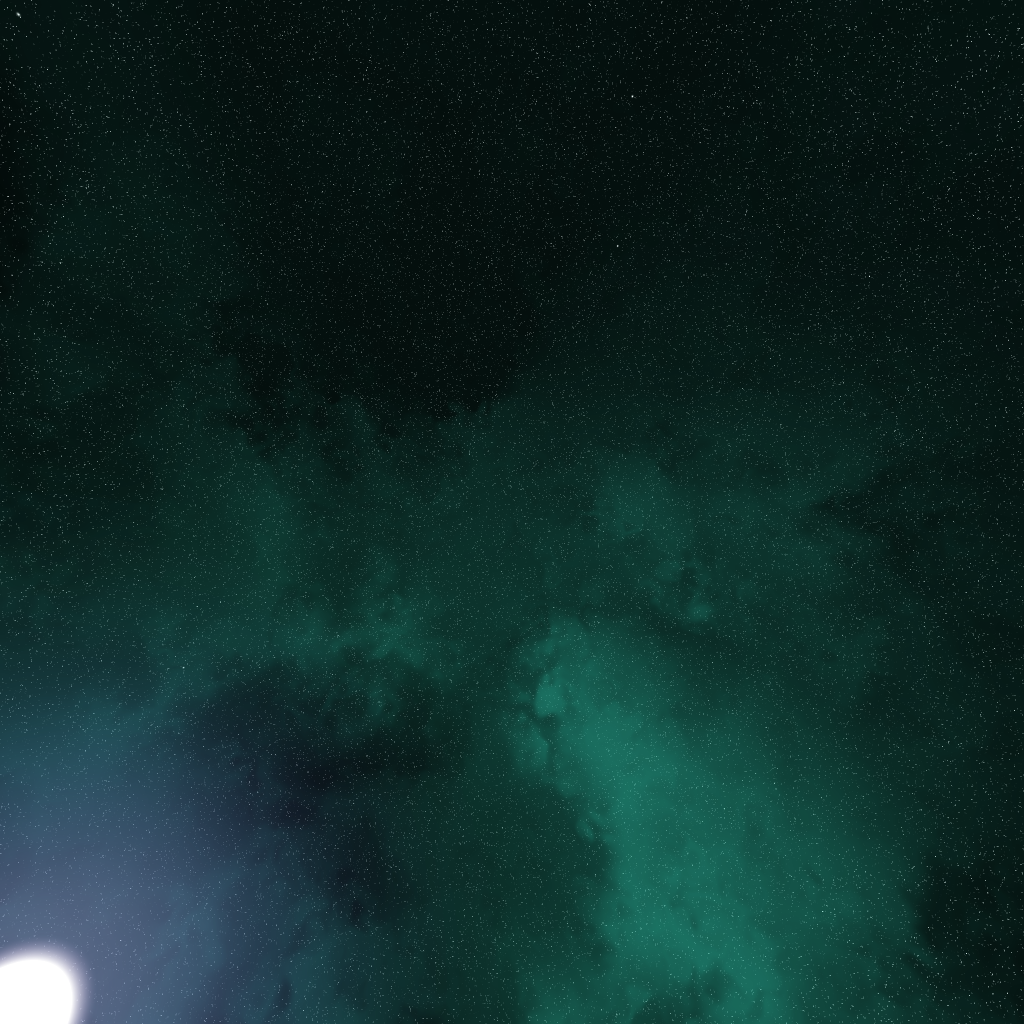
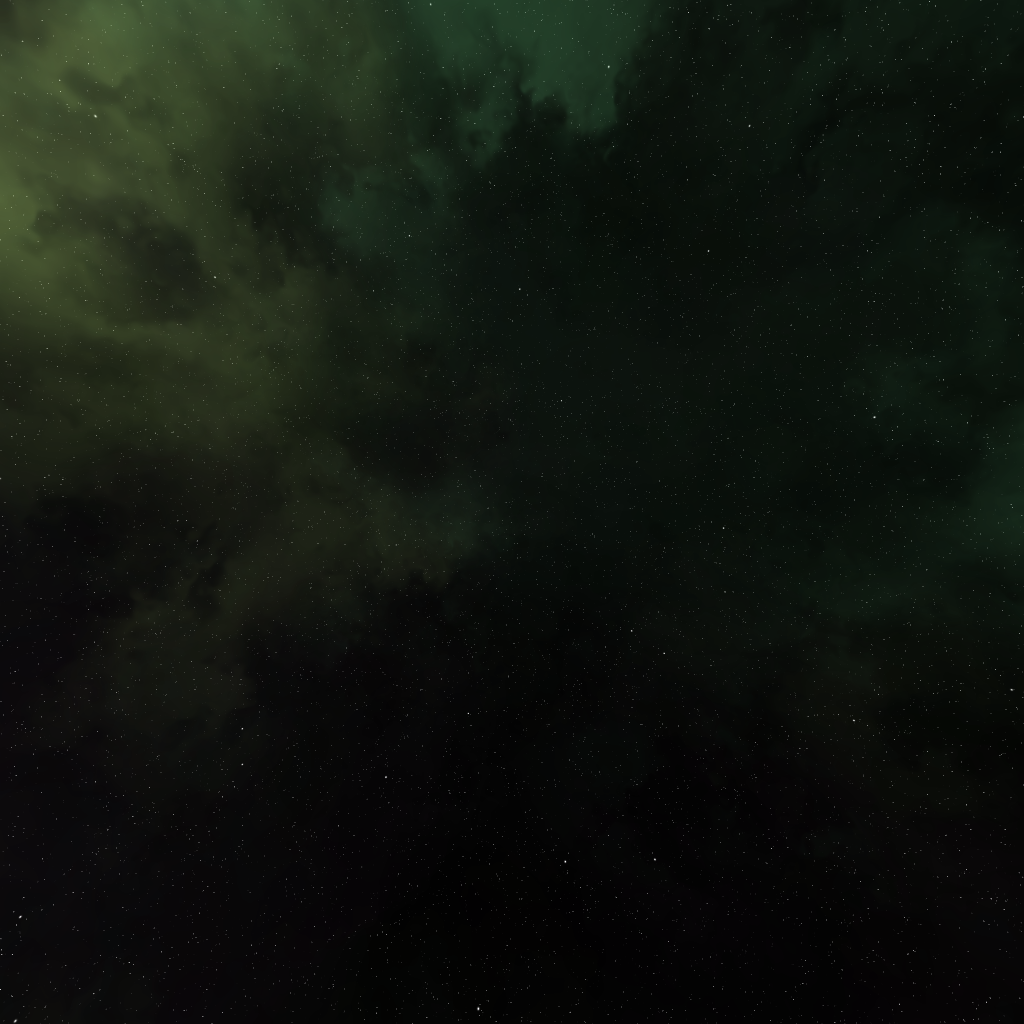
ADDED NEW SKYBOX

diff --git a/GraphicsProgramming/Scene.cpp b/GraphicsProgramming/Scene.cpp
@@ -44,7 +44,31 @@ Scene::Scene(Input *in)
 	//defaultLight->specular = Vector3(1.0f, 1.0f, 1.0f);
 
 	//lights.push_back(defaultLight);
+
+
+
 	LoadScene("scene.json");
+
+	Light* fireLight = new Light();
+
+	fireLight->name = "FireLight";
+	fireLight->type = LightType::Point;
+
+	fireLight->active = true;
+	fireLight->visible = true;
+
+	fireLight->position = Vector3(0.0f, 2.0f, 0.0f);
+
+	fireLight->ambient = Vector3(0.2f, 0.05f, 0.0f);
+	fireLight->diffuse = Vector3(1.0f, 0.3f, 0.1f);
+	fireLight->specular = Vector3(1.0f, 0.5f, 0.2f);
+
+
+	fireLight->constantAttenuation = 1.0f;
+	fireLight->linearAttenuation = 0.09f;
+	fireLight->quadraticAttenuation = 0.032f;
+
+	lights.push_back(fireLight);
 	skybox.loadTexture();
 	
 }
@@ -1007,7 +1031,7 @@ void Scene::drawSun()
 	renderer.ApplyMaterial(Vector3(1.0f, 0.8f, 0.2f), Vector3(1.0f, 0.9f, 0.3f), Vector3(1.0f, 1.0f, 0.5f), 10.0f);
 	GLfloat emission[] = { 1.0f, 0.8f, 0.2f, 1.0f };
 	glMaterialfv(GL_FRONT, GL_EMISSION, emission);
-	glScalef(0.5f, 0.5f, 0.5f);
+	glScalef(1.5f, 1.5f, 1.5f);
 	proceduralShapes.renderSphere();
 
 	glPopMatrix();
@@ -1016,12 +1040,12 @@ void Scene::drawSun()
 void Scene::drawEarth()
 {
 	glRotatef(solarSystemRotation, 0, 0, 1);
-	glTranslatef(2.0f, 0.0f, 0.0f);
+	glTranslatef(10.0f, 0.0f, 0.0f);
 
 	glPushMatrix();
 
 	renderer.ApplyMaterial(Vector3(0.0f, 0.0f, 0.2f), Vector3(0.0f, 0.0f, 0.8f), Vector3(0.3f, 0.3f, 1.0f), 32.0f);
-	glScalef(0.2f, 0.2f, 0.2f);
+	glScalef(1.2f, 1.2f, 1.2f);
 	proceduralShapes.renderSphere();
 
 	glPopMatrix();
@@ -1030,12 +1054,12 @@ void Scene::drawEarth()
 void Scene::drawEarth2()
 {
 	glRotatef(solarSystemRotation, 0, 0, 1);
-	glTranslatef(4.0f, 0.0f, 0.0f);
+	glTranslatef(10.0f, 0.0f, 0.0f);
 
 	glPushMatrix();
 
 	renderer.ApplyMaterial(Vector3(0.2f, 0.0f, 0.0f), Vector3(0.8f, 0.1f, 0.1f), Vector3(1.0f, 0.3f, 0.3f), 16.0f);
-	glScalef(0.4f, 0.4f, 0.4f);
+	glScalef(1.4f, 1.4f, 1.4f);
 	proceduralShapes.renderSphere();
 
 	glPopMatrix();
@@ -1052,12 +1076,12 @@ void Scene::drawEarth2()
 void Scene::drawEarth2FirstMoon()
 {
 	glRotatef(solarSystemRotation * 2.0f, 0, 0, 1);
-	glTranslatef(1.0f, 0.0f, 0.0f);
+	glTranslatef(7.0f, 0.0f, 0.0f);
 
 	glPushMatrix();
 
 	renderer.ApplyMaterial(Vector3(0.2f, 0.2f, 0.2f), Vector3(0.6f, 0.6f, 0.6f), Vector3(0.3f, 0.3f, 0.3f), 8.0f);
-	glScalef(0.1f, 0.1f, 0.1f);
+	glScalef(1.1f, 1.1f, 1.1f);
 	proceduralShapes.renderSphere();
 
 	glPopMatrix();
@@ -1070,13 +1094,13 @@ void Scene::drawEarth2FirstMoon()
 void Scene::drawEarth2SecondMoon()
 {
 	glRotatef(solarSystemRotation * 1.5f, 0, 1, 0);
-	glTranslatef(1.2f, 0.0f, 0.0f);
+	glTranslatef(7.2f, 0.0f, 0.0f);
 
 	glPushMatrix();
 
 	renderer.ApplyMaterial(Vector3(0.2f, 0.2f, 0.2f), Vector3(0.6f, 0.6f, 0.6f), Vector3(0.3f, 0.3f, 0.3f), 8.0f);
 
-	glScalef(0.12f, 0.12f, 0.12f);
+	glScalef(1.12f, 1.12f, 1.12f);
 	proceduralShapes.renderSphere();
 
 	glPopMatrix();
@@ -1085,12 +1109,12 @@ void Scene::drawEarth2SecondMoon()
 void Scene::drawEarth2MoonWithAMoon()
 {
 	glRotatef(solarSystemRotation * 3.0f, 0, 1, 0);
-	glTranslatef(0.4f, 0.0f, 0.0f);
+	glTranslatef(6.4f, 0.0f, 0.0f);
 
 	glPushMatrix();
 
 	renderer.ApplyMaterial(Vector3(0.2f, 0.2f, 0.2f), Vector3(0.6f, 0.6f, 0.6f), Vector3(0.3f, 0.3f, 0.3f), 8.0f);
-	glScalef(0.05f, 0.05f, 0.05f);
+	glScalef(0.15f, 0.15f, 0.15f);
 	proceduralShapes.renderSphere();
 
 	glPopMatrix();

diff --git a/GraphicsProgramming/Scene.h b/GraphicsProgramming/Scene.h
@@ -96,7 +96,7 @@ protected:
 
 	ProceduralGeneratedShapes proceduralShapes;
 
-	Vector3 solarSystemPosition = Vector3(20.0f, 8.0f, 20.0f);
+	Vector3 solarSystemPosition = Vector3(67.0f, 73.0f, 82.0f);
 
 	float solarSystemRotation = 0.0f;
 	float solarSystemRotationSpeed = 20.0f;

diff --git a/GraphicsProgramming/Camera.cpp b/GraphicsProgramming/Camera.cpp
@@ -3,9 +3,12 @@
 
 Camera::Camera()
 {
-	position = Vector3(0, 0, 6);
+	position = Vector3(29, 4, 16);
 	lookAt = Vector3(0, 0, 0);
 	up = Vector3(0, 1, 0);
+	Yaw = -213.f;
+	Pitch = -7.5f;
+	Roll = 0.f;
 }
 
 void Camera::Update()
